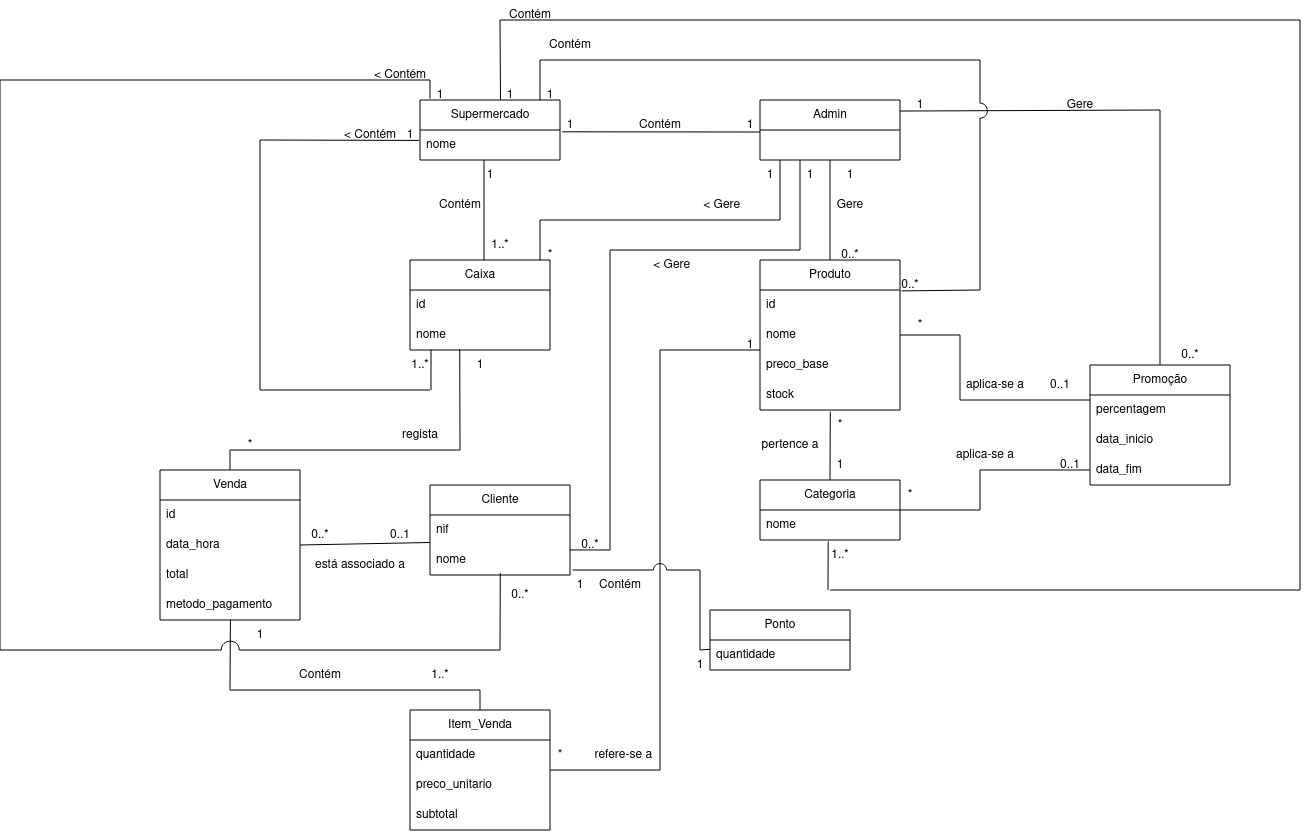
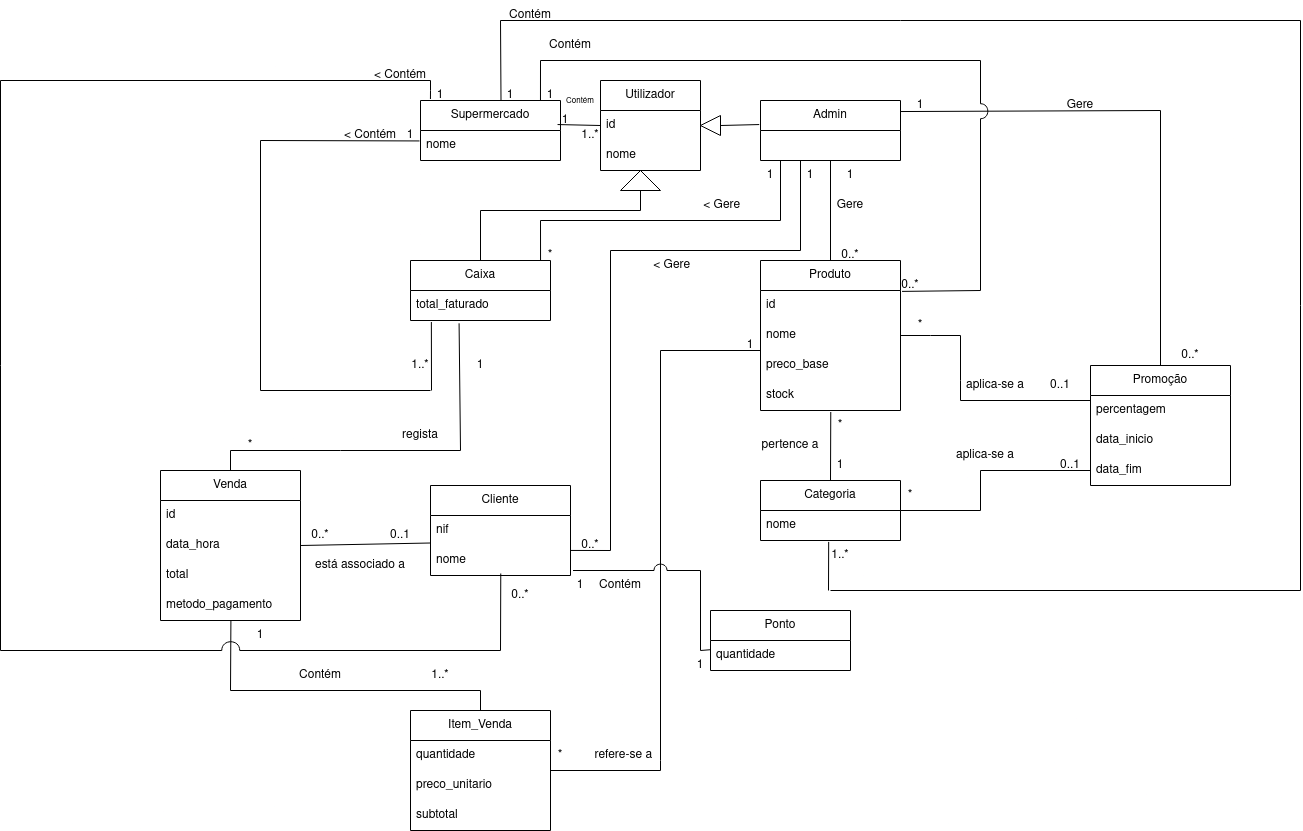
adicionado heranca de utilizador, crud de produtos e categorias, mais os updates ao relatorio do DCD

diff --git a/Project/src/controller/CategoriaController.cpp b/Project/src/controller/CategoriaController.cpp
@@ -1,0 +1,64 @@
+#include "../../include/controller/CategoriaController.h"
+#include <fstream>
+#include <sstream>
+
+CategoriaController::CategoriaController() {
+    caminhoFicheiro = "../categorias.csv";
+    proximoId = 1;
+    carregarFicheiro();
+}
+
+void CategoriaController::criarCategoria(std::string nome, double taxa_iva) {
+    Categoria c(proximoId, nome, taxa_iva);
+    categorias.push_back(c);
+    proximoId++;
+    guardarEmFicheiro();
+}
+
+std::vector<Categoria>& CategoriaController::getCategorias() {
+    return categorias;
+}
+
+void CategoriaController::guardarEmFicheiro() {
+    std::ofstream ficheiro(caminhoFicheiro);
+    if (!ficheiro.is_open()) return;
+
+    for (int i = 0; i < (int)categorias.size(); i++) {
+        ficheiro << categorias[i].getId() << "," << categorias[i].getNome() << "," << categorias[i].getTaxaIva() << "\n";
+    }
+    ficheiro.close();
+}
+
+void CategoriaController::carregarFicheiro() {
+    std::ifstream ficheiro(caminhoFicheiro);
+
+    if (!ficheiro.is_open()) {
+        return;
+    }
+
+    std::string linha;
+    while (std::getline(ficheiro, linha)) {
+        std::stringstream ss(linha);
+        std::string campo;
+        int id;
+        std::string nome;
+        double taxa_iva;
+
+        std::getline(ss, campo, ',');
+        id = std::stoi(campo);
+
+        std::getline(ss, nome, ',');
+
+        std::getline(ss, campo, ',');
+        taxa_iva = std::stod(campo);
+
+        Categoria c(id, nome, taxa_iva);
+        categorias.push_back(c);
+
+        if (id >= proximoId) {
+            proximoId = id + 1;
+        }
+    }
+
+    ficheiro.close();
+}

diff --git a/Project/src/view/CategoriaView.cpp b/Project/src/view/CategoriaView.cpp
@@ -1,0 +1,60 @@
+#include "../../include/view/CategoriaView.h"
+#include "../../include/controller/CategoriaController.h"
+#include <iostream>
+#include <string>
+
+CategoriaView::CategoriaView() {}
+
+void CategoriaView::mostrarMenuCategorias() {
+    CategoriaController controller;
+
+    int opcao;
+    while (true) {
+        std::cout << "\n--- GERIR CATEGORIAS ---" << std::endl;
+        std::cout << "1. Criar Categoria" << std::endl;
+        std::cout << "2. Listar Categorias" << std::endl;
+        std::cout << "0. Voltar" << std::endl;
+        std::cout << "\nOpcao: ";
+        while (!(std::cin >> opcao)) {
+            std::cout << "Erro! Insira um numero: ";
+            std::cin.clear();
+            std::cin.ignore(1000, '\n');
+        }
+        std::cin.ignore();
+
+        if (opcao == 0) {
+            return;
+        } else if (opcao == 1) {
+            std::string nome;
+            double taxa_iva;
+
+            std::cout << "Nome da Categoria: ";
+            std::getline(std::cin, nome);
+
+            std::cout << "Taxa de IVA (ex: 0.23 para 23%): ";
+            while (!(std::cin >> taxa_iva)) {
+                std::cout << "Erro! Escreva um numero decimal (ex: 0.23): ";
+                std::cin.clear();
+                std::cin.ignore(1000, '\n');
+            }
+
+            controller.criarCategoria(nome, taxa_iva);
+            std::cout << "Categoria criada com sucesso!" << std::endl;
+
+        } else if (opcao == 2) {
+            std::vector<Categoria>& lista = controller.getCategorias();
+            if (lista.empty()) {
+                std::cout << "\nNão existem categorias registadas." << std::endl;
+            } else {
+                std::cout << "\n--- LISTA DE CATEGORIAS ---" << std::endl;
+                for (int i = 0; i < (int)lista.size(); i++) {
+                    std::cout << "ID: " << lista[i].getId() 
+                              << " | Nome: " << lista[i].getNome() 
+                              << " | IVA: " << (lista[i].getTaxaIva() * 100) << "%" << std::endl;
+                }
+            }
+        } else {
+            std::cout << "Opcao invalida. Tente novamente." << std::endl;
+        }
+    }
+}

diff --git a/Project/src/view/CatalogoView.cpp b/Project/src/view/CatalogoView.cpp
@@ -36,21 +36,21 @@ void CatalogoView::mostrarMenuCatalogo() {
 
             std::cout << "Preco base: ";
             while (!(std::cin >> preco_base)) {
-                std::cout << "Erro! Insira um numero para o preco: ";
+                std::cout << "Erro! Escreva um numero para o preco: ";
                 std::cin.clear(); //failbit
                 std::cin.ignore(1000, '\n');
             }
 
             std::cout << "Stock: ";
             while (!(std::cin >> stock)) {
-                std::cout << "Erro! Insira um numero inteiro para o stock: ";
+                std::cout << "Erro! Escreva um numero inteiro para o stock: ";
                 std::cin.clear(); //failbit
                 std::cin.ignore(1000, '\n');
             }
 
             std::cout << "ID Categoria: ";
             while (!(std::cin >> id_categoria)) {
-                std::cout << "Erro! Insira um numero para a categoria: ";
+                std::cout << "Erro! Escreva um numero para a categoria: ";
                 std::cin.clear(); //failbit
                 std::cin.ignore(1000, '\n');
             }
@@ -59,11 +59,30 @@ void CatalogoView::mostrarMenuCatalogo() {
             std::cout << "Produto criado com sucesso!" << std::endl;
 
         } else if (opcao == 2) {
-            std::cout << "Listar Produtos - em desenvolvimento" << std::endl;
+            std::vector<Produto>& lista = controller.getProdutos();
+            if (lista.empty()) {
+                std::cout << "\nO catalogo esta vazio." << std::endl;
+            } else {
+                std::cout << "\n--- LISTA DE PRODUTOS ---" << std::endl;
+                for (int i = 0; i < (int)lista.size(); i++) {
+                    std::cout << "ID: " << lista[i].getId() 
+                              << " | Nome: " << lista[i].getNome() 
+                              << " | Preco: " << lista[i].getPrecoBase() 
+                              << " | Stock: " << lista[i].getStock() << std::endl;
+                }
+            }
         } else if (opcao == 3) {
             std::cout << "Editar Produto - em desenvolvimento" << std::endl;
         } else if (opcao == 4) {
-            std::cout << "Remover Produto - em desenvolvimento" << std::endl;
+            int id;
+            std::cout << "ID do produto a remover: ";
+            while (!(std::cin >> id)) {
+                std::cout << "Erro! Insira um ID numerico: ";
+                std::cin.clear();
+                std::cin.ignore(1000, '\n');
+            }
+            controller.removerProduto(id);
+            std::cout << "Operacao concluida (se o ID existia, o produto foi removido)." << std::endl;
         } else {
             std::cout << "Opcao invalida. Tente novamente." << std::endl;
         }

diff --git a/Project/src/controller/CatalogoController.cpp b/Project/src/controller/CatalogoController.cpp
@@ -12,10 +12,35 @@ void CatalogoController::criarProduto(std::string nome, double preco_base, int s
     Produto p(proximoId, nome, preco_base, stock, id_categoria);
     produtos.push_back(p);
     proximoId++;
+    guardarEmFicheiro();
+}
+
+void CatalogoController::removerProduto(int id) {
+    for (int i = 0; i < produtos.size(); i++) {
+        if (produtos[i].getId() == id) {
+            produtos.erase(produtos.begin() + i);
+            guardarEmFicheiro();
+            return;
+        }
+    }
 }
 
 std::vector<Produto>& CatalogoController::getProdutos() {
     return produtos;
+}
+
+void CatalogoController::guardarEmFicheiro() {
+    std::ofstream ficheiro(caminhoFicheiro);
+    if (!ficheiro.is_open()) return;
+
+    for (int i = 0; i < (int)produtos.size(); i++) {
+        ficheiro << produtos[i].getId() << ","
+                 << produtos[i].getNome() << ","
+                 << produtos[i].getPrecoBase() << ","
+                 << produtos[i].getStock() << ","
+                 << produtos[i].getIdCategoria() << "\n";
+    }
+    ficheiro.close();
 }
 
 void CatalogoController::carregarFicheiro() {

diff --git a/Project/include/controller/CategoriaController.h b/Project/include/controller/CategoriaController.h
@@ -1,0 +1,19 @@
+#pragma once
+#include <vector>
+#include <string>
+#include "../../include/model/Categoria.h"
+
+class CategoriaController {
+private:
+    std::vector<Categoria> categorias;
+    int proximoId;
+    std::string caminhoFicheiro;
+
+    void carregarFicheiro();
+    void guardarEmFicheiro();
+
+public:
+    CategoriaController();
+    void criarCategoria(std::string nome, double taxa_iva);
+    std::vector<Categoria>& getCategorias();
+};

diff --git a/Project/include/model/Utilizador.h b/Project/include/model/Utilizador.h
@@ -1,0 +1,14 @@
+#pragma once
+#include <string>
+
+class Utilizador {
+protected:
+    int id;
+    std::string nome;
+
+public:
+    Utilizador(int id, std::string nome);
+
+    int getId() const;
+    std::string getNome() const;
+};

diff --git a/Project/include/model/Caixa.h b/Project/include/model/Caixa.h
@@ -1,16 +1,13 @@
 #pragma once
-#include <string>
+#include "Utilizador.h"
 
-class Caixa {
+class Caixa : public Utilizador {
 private:
-    int id;
-    std::string nome;
     double total_faturado;
 
 public:
     Caixa(int id, std::string nome);
-    int getId();
-    std::string getNome();
-    double getTotalFaturado();
+    
+    double getTotalFaturado() const;
     void adicionarFaturacao(double valor);
 };

diff --git a/Project/src/model/Utilizador.cpp b/Project/src/model/Utilizador.cpp
@@ -1,0 +1,11 @@
+#include "../../include/model/Utilizador.h"
+
+Utilizador::Utilizador(int id, std::string nome) : id(id), nome(nome) {}
+
+int Utilizador::getId() const {
+    return id;
+}
+
+std::string Utilizador::getNome() const {
+    return nome;
+}

diff --git a/Project/src/view/AdminView.cpp b/Project/src/view/AdminView.cpp
@@ -1,5 +1,6 @@
 #include "../../include/view/AdminView.h"
 #include "../../include/view/CatalogoView.h"
+#include "../../include/view/CategoriaView.h"
 #include <iostream>
 
 AdminView::AdminView() {}
@@ -9,8 +10,9 @@ void AdminView::mostrarMenuAdmin() {
     while (true) {
         std::cout << "\n--- MENU ADMIN ---" << std::endl;
         std::cout << "1. Gerir Catalogo" << std::endl;
-        std::cout << "2. Gerir Clientes" << std::endl;
-        std::cout << "3. Ver Estatisticas" << std::endl;
+        std::cout << "2. Gerir Categorias" << std::endl;
+        std::cout << "3. Gerir Clientes" << std::endl;
+        std::cout << "4. Ver Estatisticas" << std::endl;
         std::cout << "0. Sair" << std::endl;
         std::cout << "\nOpcao: ";
         while (!(std::cin >> opcao)) {
@@ -25,8 +27,11 @@ void AdminView::mostrarMenuAdmin() {
             CatalogoView catalogoView;
             catalogoView.mostrarMenuCatalogo();
         } else if (opcao == 2) {
-            std::cout << "Gerir Clientes - em desenvolvimento" << std::endl;
+            CategoriaView categoriaView;
+            categoriaView.mostrarMenuCategorias();
         } else if (opcao == 3) {
+            std::cout << "Gerir Clientes - em desenvolvimento" << std::endl;
+        } else if (opcao == 4) {
             std::cout << "Ver Estatisticas - em desenvolvimento" << std::endl;
         } else {
             std::cout << "Opcao invalida. Tente novamente." << std::endl;

diff --git a/Project/include/model/Admin.h b/Project/include/model/Admin.h
@@ -1,0 +1,9 @@
+#pragma once
+#include "Utilizador.h"
+
+class Admin : public Utilizador {
+public:
+    static const int ADMIN_DEFAULT_ID = 0;
+
+    Admin();
+};

diff --git a/Project/src/model/Caixa.cpp b/Project/src/model/Caixa.cpp
@@ -1,12 +1,9 @@
 #include "../../include/model/Caixa.h"
 
-Caixa::Caixa(int id, std::string nome) {
-    this->id = id;
-    this->nome = nome;
+Caixa::Caixa(int id, std::string nome) : Utilizador(id, nome) {
     this->total_faturado = 0.0;
 }
 
-int Caixa::getId() { return id; }
-std::string Caixa::getNome() { return nome; }
-double Caixa::getTotalFaturado() { return total_faturado; }
+double Caixa::getTotalFaturado() const { return total_faturado; }
+
 void Caixa::adicionarFaturacao(double valor) { total_faturado += valor; }

diff --git a/Project/include/view/CategoriaView.h b/Project/include/view/CategoriaView.h
@@ -1,0 +1,7 @@
+#pragma once
+
+class CategoriaView {
+public:
+    CategoriaView();
+    void mostrarMenuCategorias();
+};